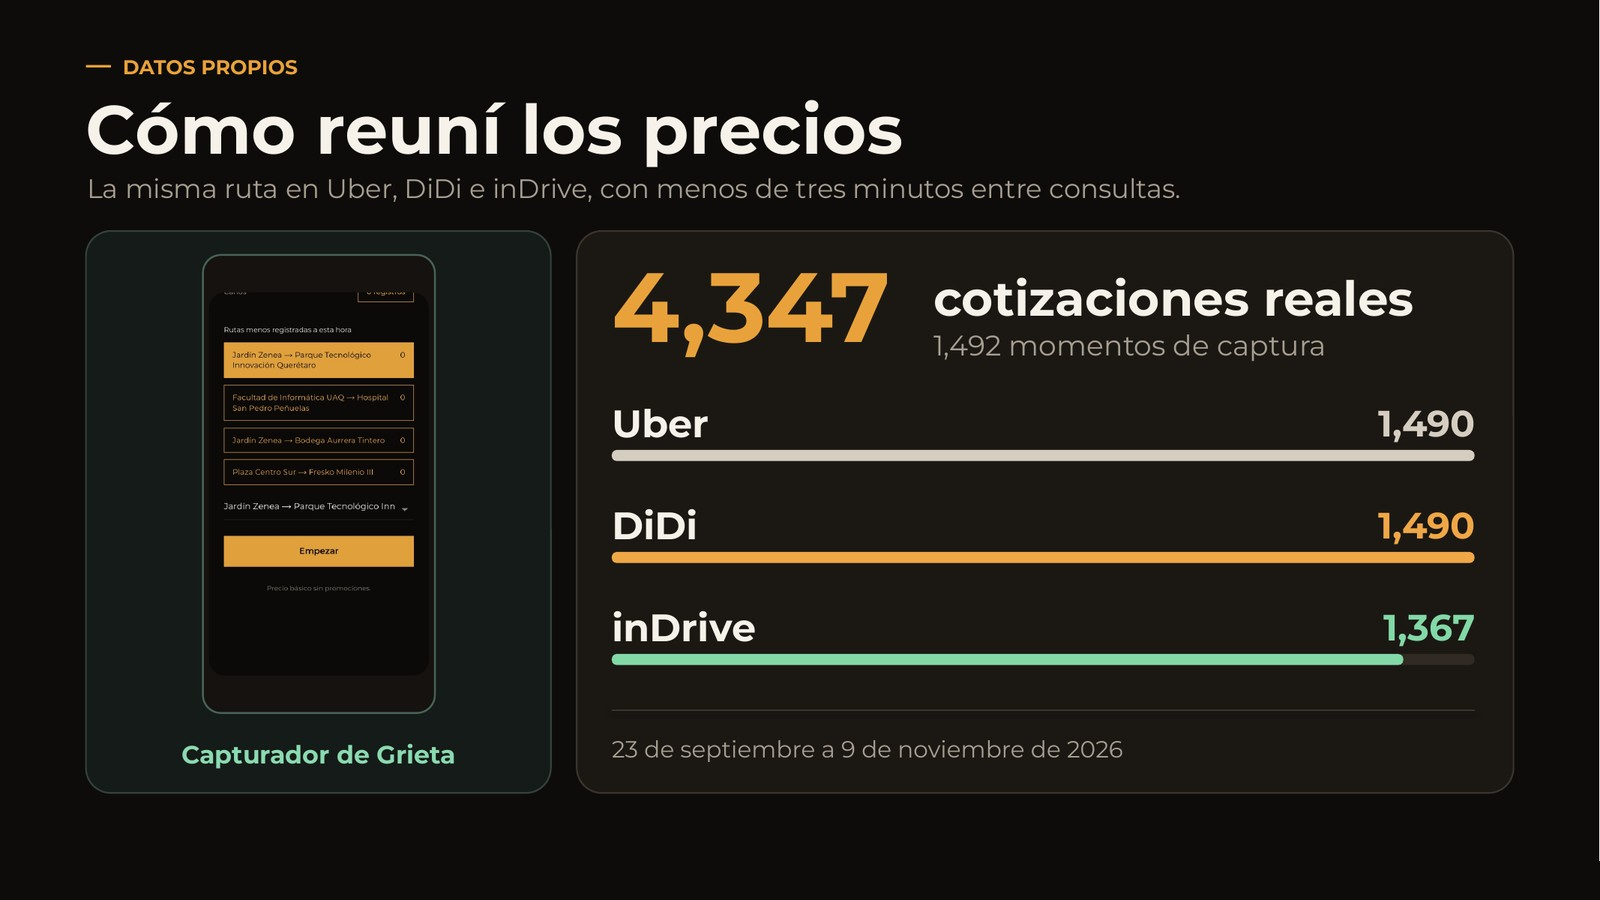
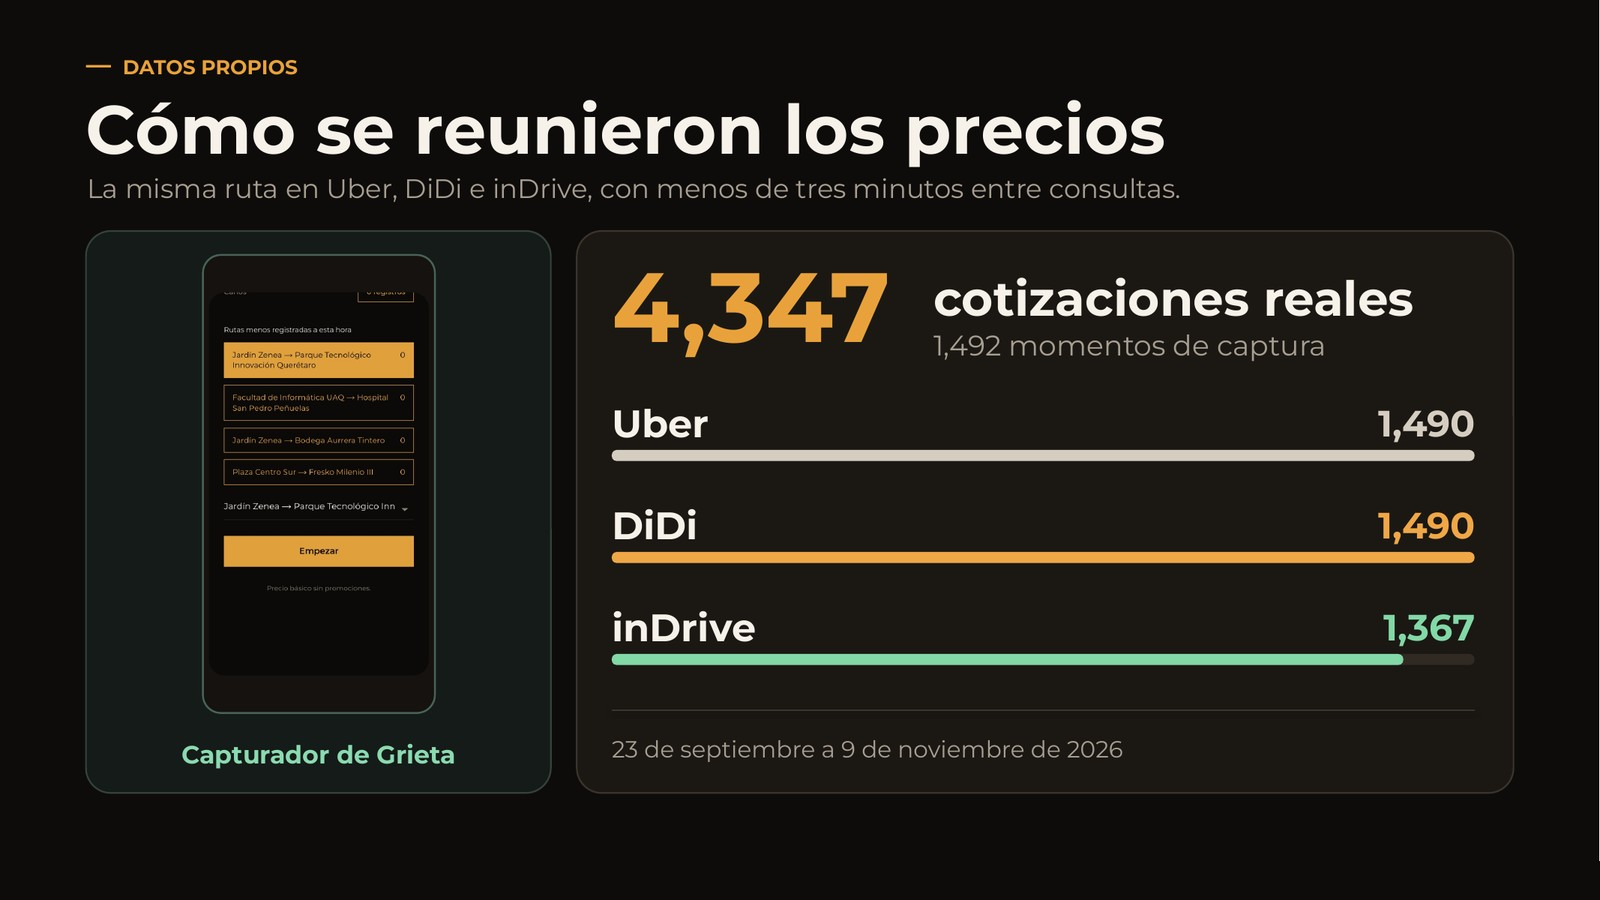
README: textos de las laminas

Changed region(s): [[0.1875, 0.0933, 0.75, 0.1867]]

diff --git a/README.md b/README.md
@@ -75,7 +75,7 @@ Las apps de viaje no publican cómo calculan sus tarifas, así que armé mi prop
 | **Algoritmo genético** | Afina los conjuntos y las reglas de la lógica difusa con viajes reales. | 80 individuos, 150 generaciones y 4 corridas, calificado con días que no vio. El costo promedio por viaje baja de $103.86 a $94.36 contra las reglas hechas a mano: $9.49 menos (95% de confianza, entre $6.72 y $12.15). |
 
 <p align="center"><img src="docs/readme/lamina-hexagonos.jpg" alt="Querétaro en hexágonos" width="100%"></p>
-<p align="center"><img src="docs/readme/lamina-datos.jpg" alt="Cómo reuní los precios" width="100%"></p>
+<p align="center"><img src="docs/readme/lamina-datos.jpg" alt="Cómo se reunieron los precios" width="100%"></p>
 <p align="center"><img src="docs/readme/lamina-qro-en-vivo.jpg" alt="Qro en vivo" width="100%"></p>
 
 ### El algoritmo genético a detalle
